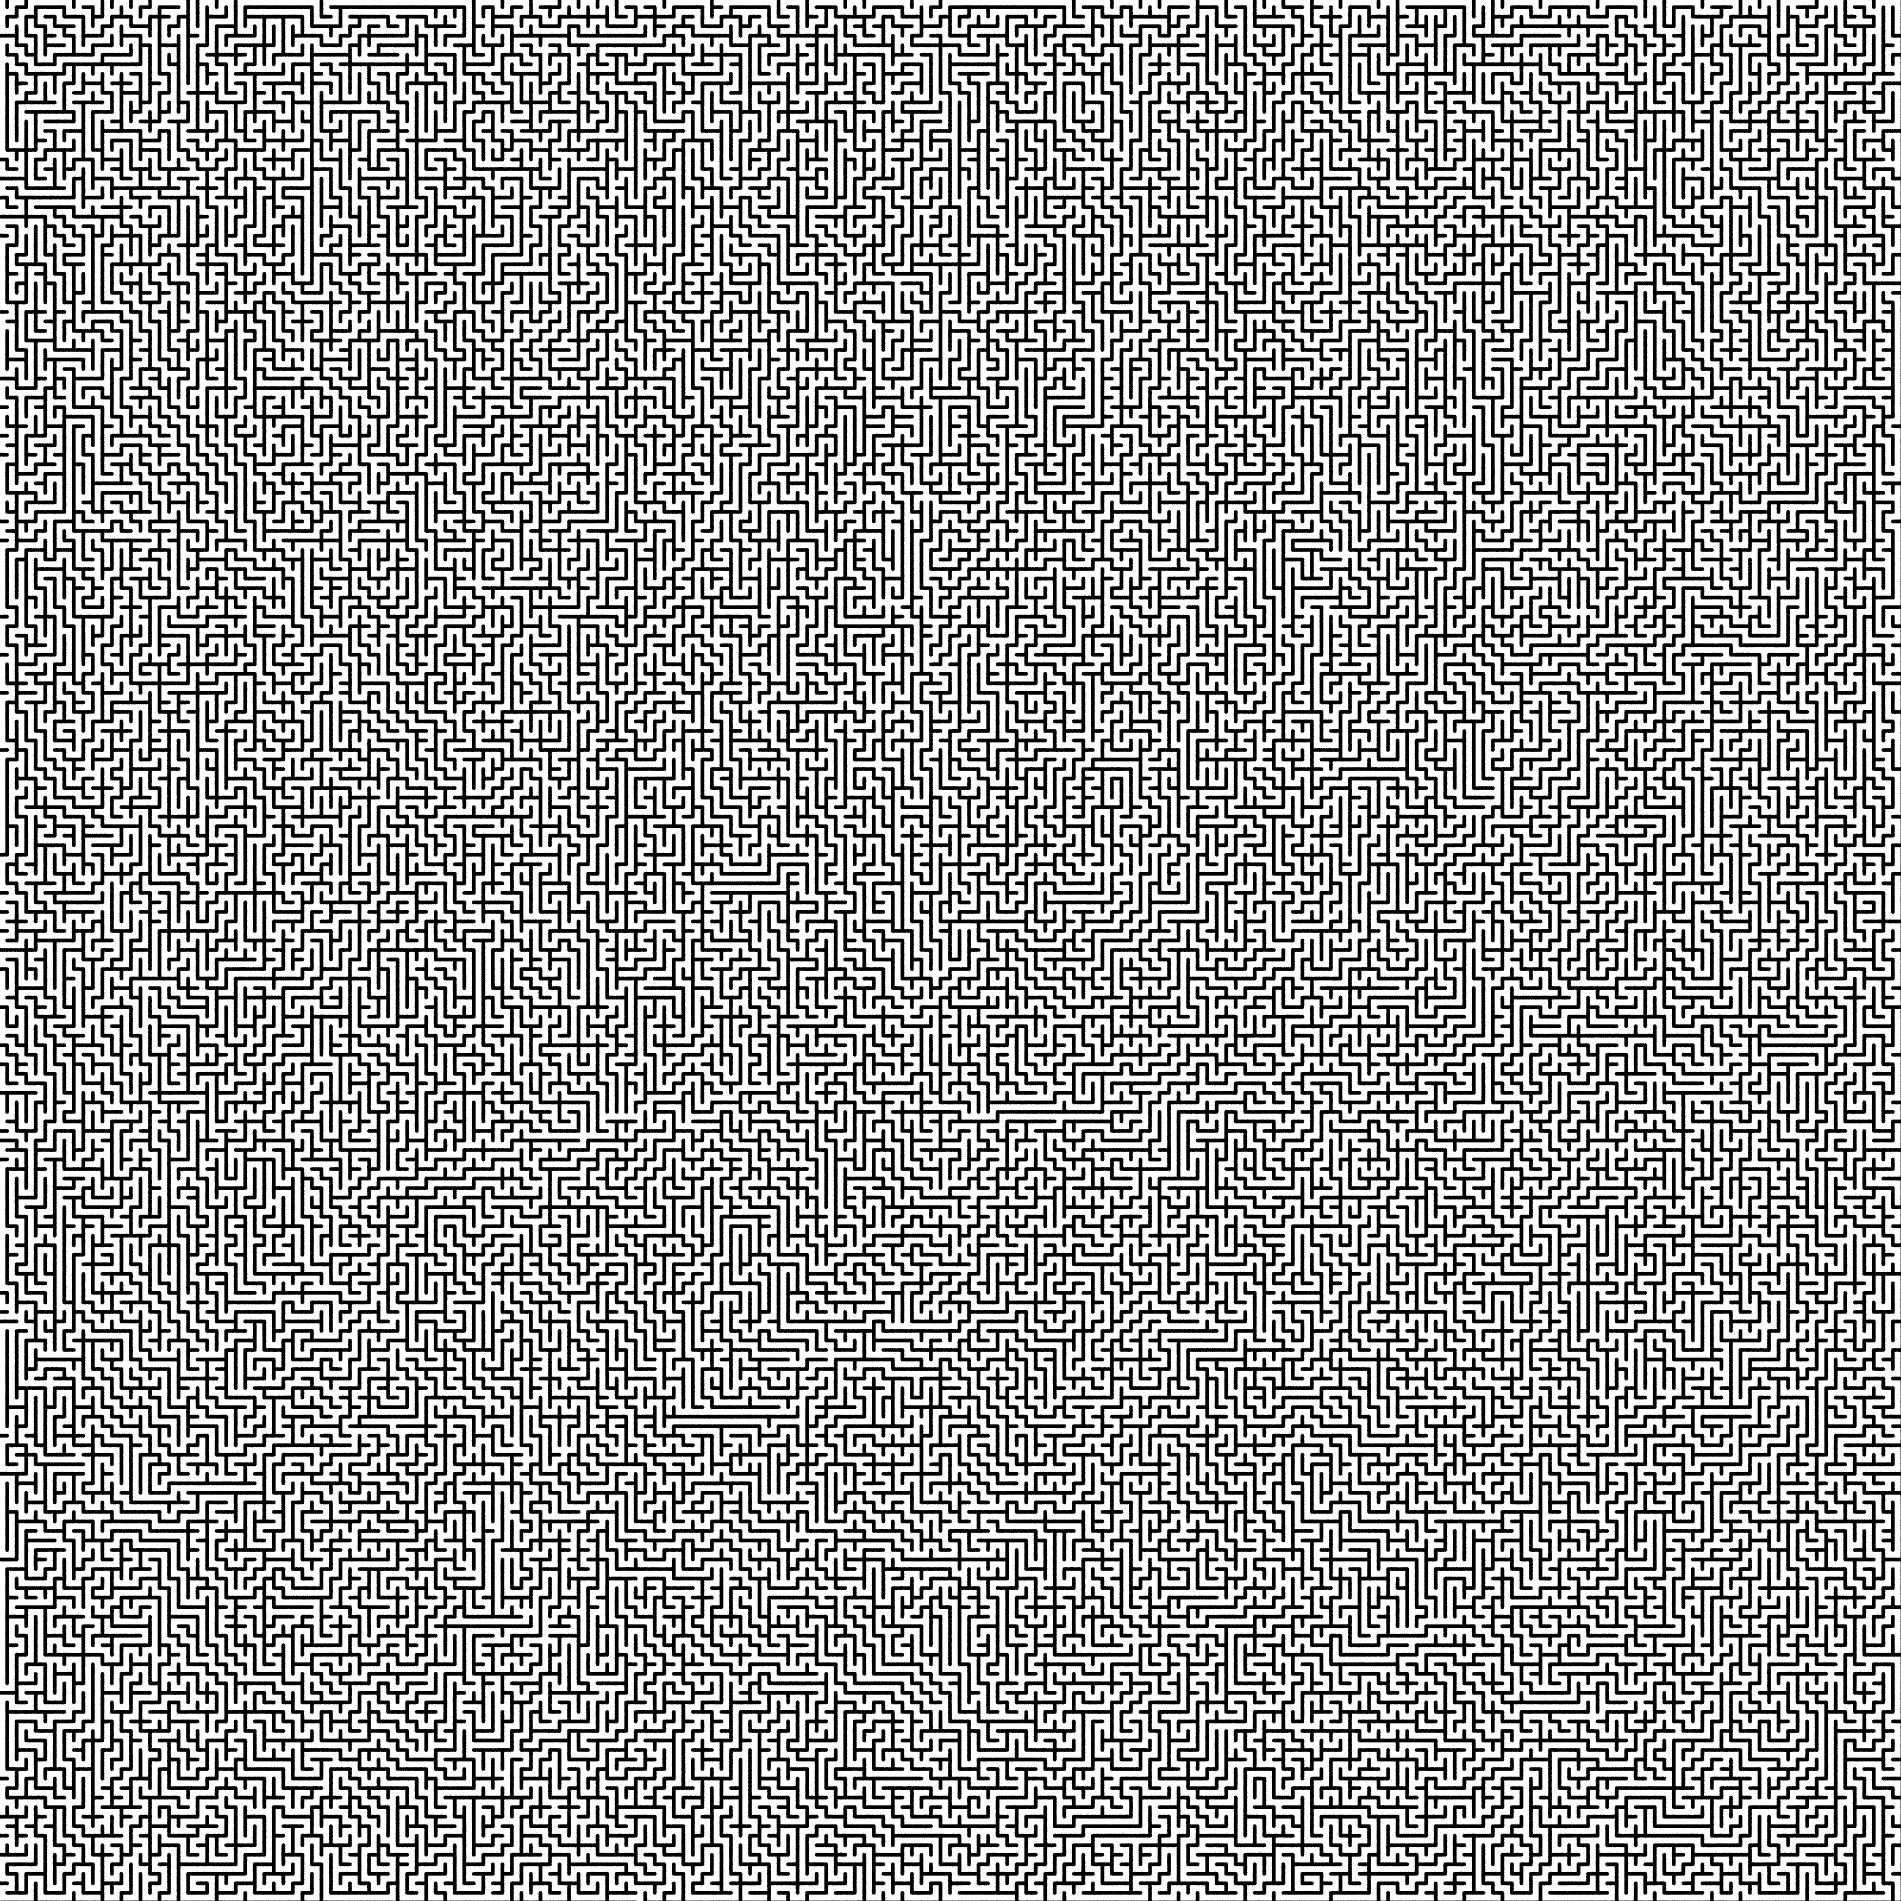
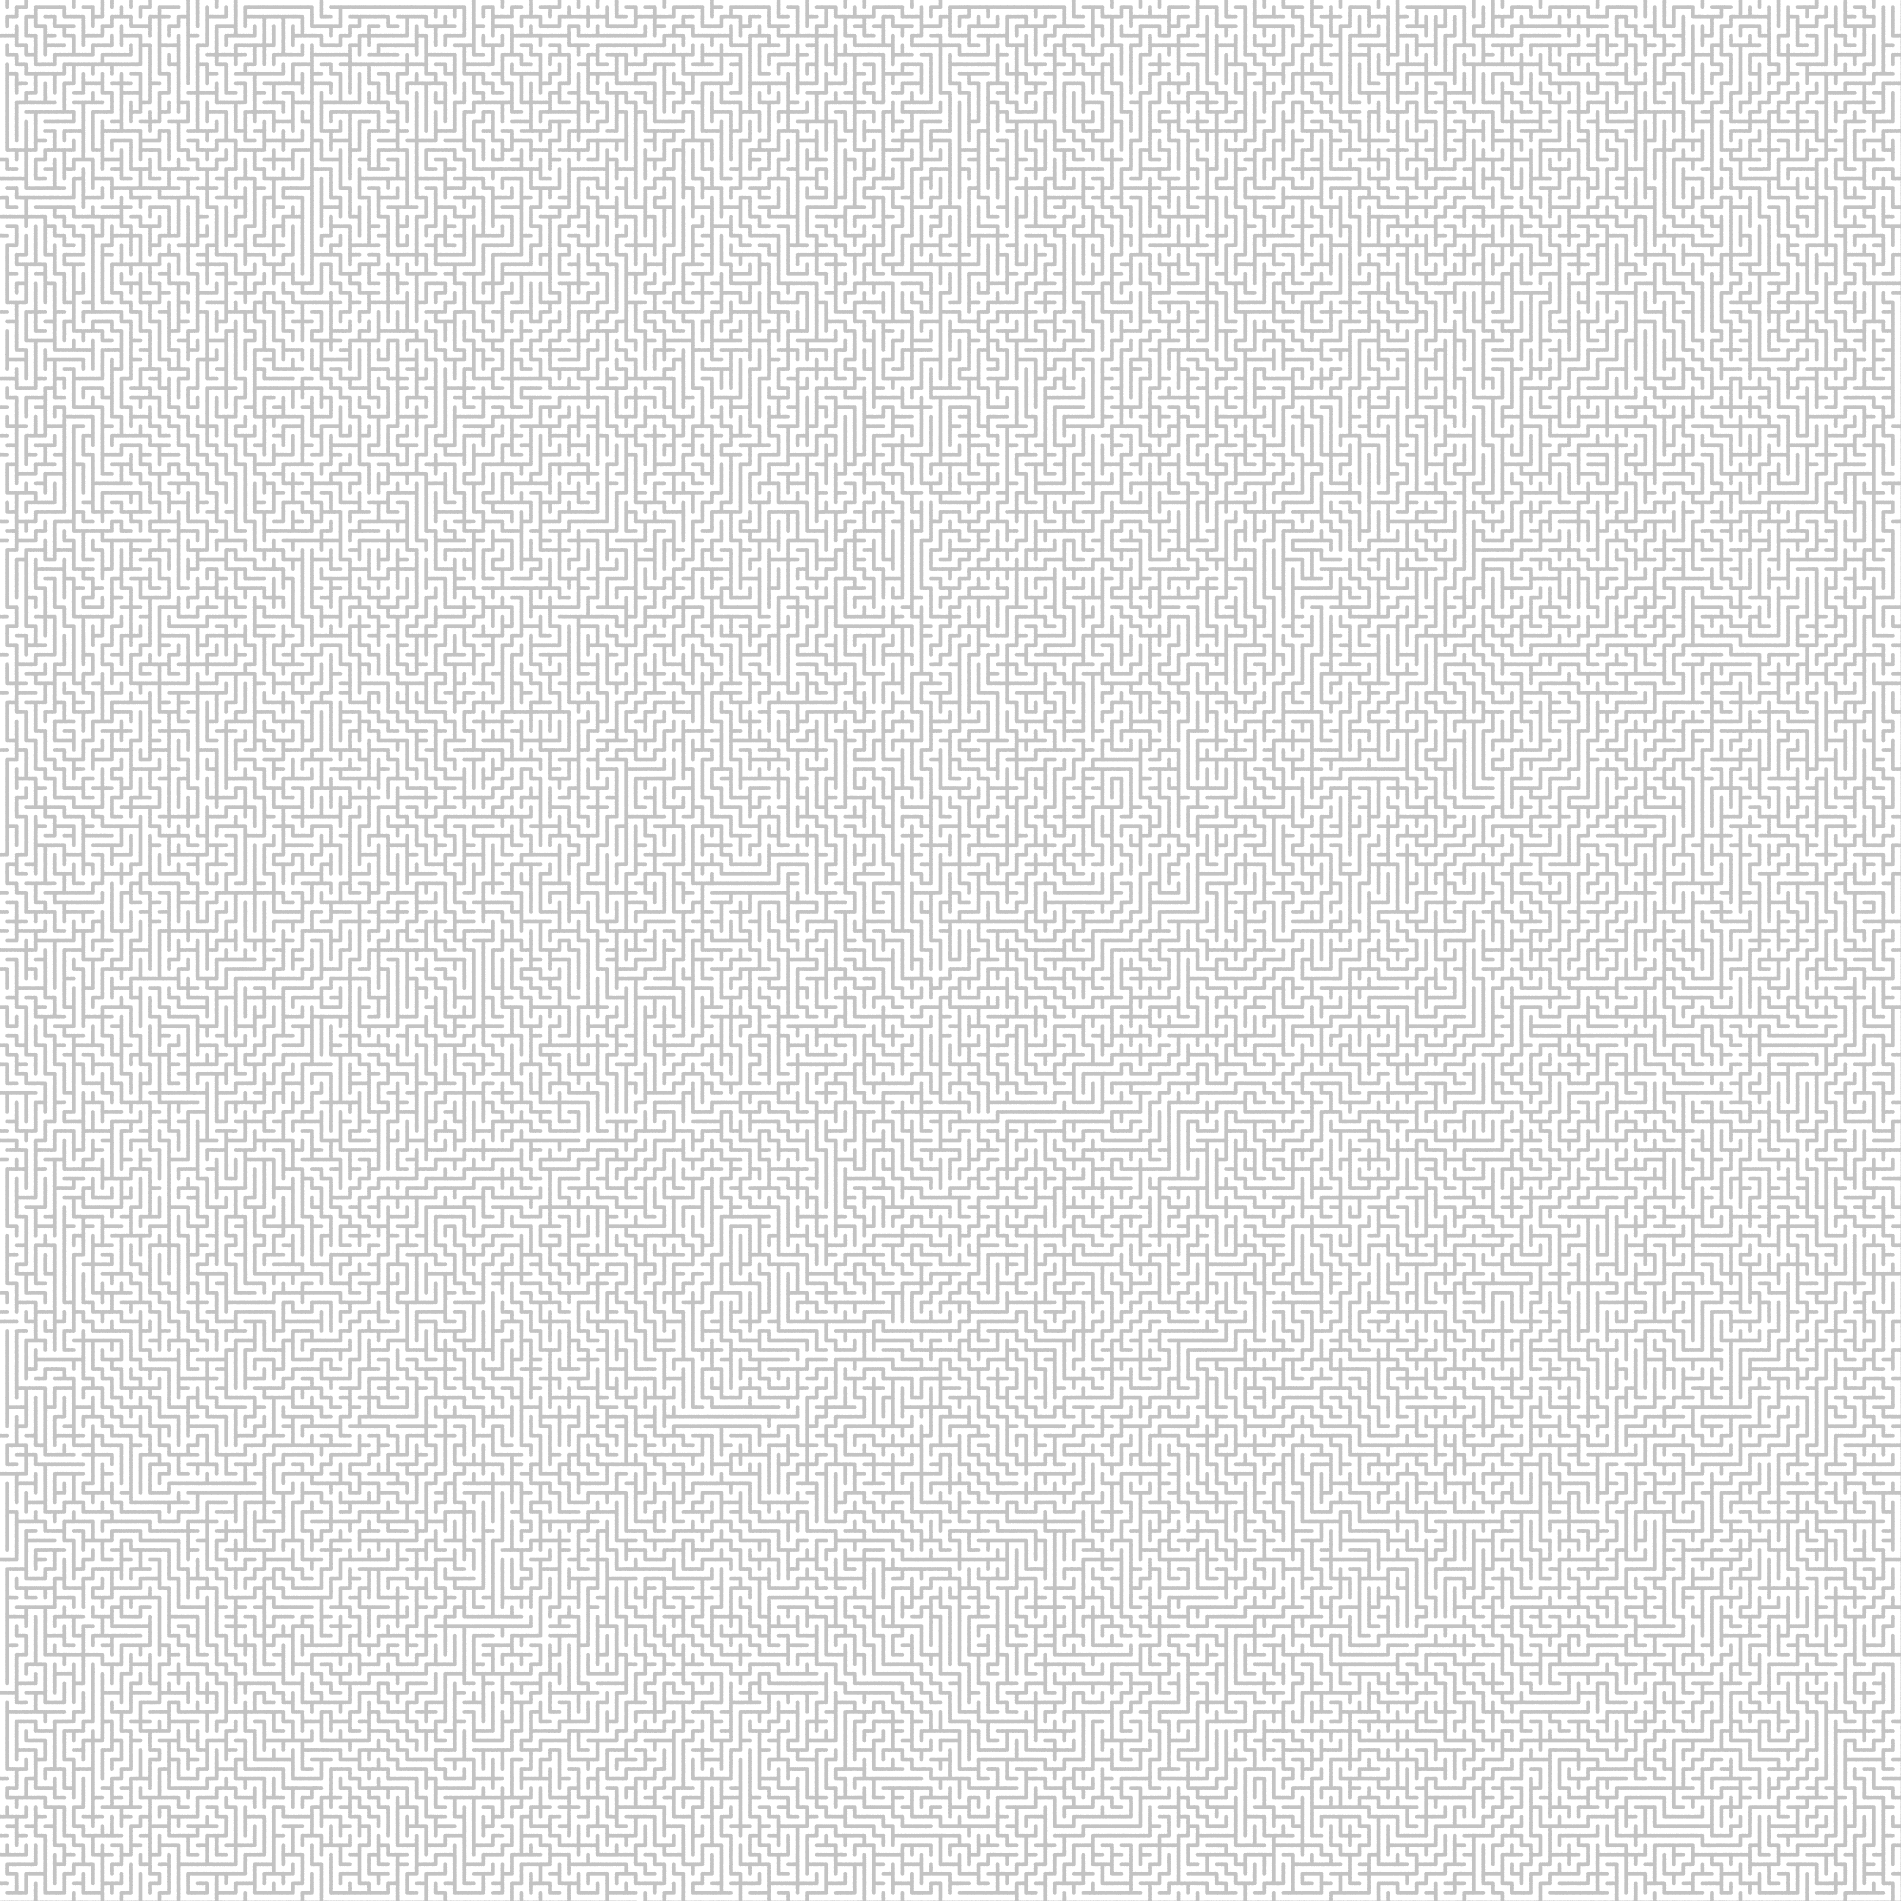
phone design

diff --git a/index.html b/index.html
@@ -17,14 +17,12 @@
 		}
 		img {
 			margin: 75px 0px 50px 0px;
-			border: 7px solid gray;
-			background: rgba(200, 200, 200, 0.5);
-			border-radius: 20px;
+			border: 7px solid rgba(200, 200, 200, 1);
 		}
 		img:hover {
-			background: rgba(50, 50, 50, 1);
-			background: -webkit-linear-gradient(bottom, rgba(50, 50, 50, 1), rgba(150, 150, 150, 1));
-			background: -moz-linear-gradient(bottom, rgba(50, 50, 50, 1), rgba(150, 150, 150, 1));
+			border: 7px solid rgba(180, 180, 180, 1);
+			background: rgba(220, 220, 220, 1);
+			border-radius: 20px;
 		}
 		a {
 			color: white;
@@ -34,6 +32,7 @@
 		ul {
 			padding: 20px;
 			background: rgba(25, 25, 25, 1);
+			border-radius: 100px 100px 0 0;
 		}
 		li {
 			display: inline;
@@ -69,6 +68,10 @@
 			color: white;
 			background: blue;
 		}
+		footer {
+			text-align: right;
+			padding: 10px;
+		}
 
 		.first{
 			background-color: black;
@@ -79,28 +82,33 @@
 		}
 		.third{
 			background-image: url("images/psychbg.png");
-			opacity: 0.1;
-			color: white;
+			color: black;
 		}
 		.fourth{
 			background-color: rgba(150, 150, 150, 1);
 			color: black;
+		}
+		.fifth{
+			background-color: rgba(25, 25, 25, 1);
+			border-radius: 0 0 100px 100px;
+			height: 250px;
 		}
 
 	</style>
 </head>
 <body>
 	<header>
-	<a href=""><img src="images/websitelogo.png" alt="Logo"></a>
+	<a href=""><img src="images/websitelogo.png" alt="logo"></a>
 	<ul>
-		<li><a href="#">Who Am I?</a></li>
-		<li><a href="#">Contact Me</a></li>
+		<li><a href="#first">Who Am I?</a></li>
+		<li><a href="#fourth">Contact Me</a></li>
 	</ul>
 	</header>
 
 	<div class="first">
+		<a name="first">
 		<p>Who Am I?<br /><br />
-		Hello there! I'm Newman, a University of Texas at Austin student majoring in Economics and Psychology. With these majors, I aspire to become a Marketing Research Analyst.</p>
+		Hello there! I'm Newman, a University of Texas at Austin student majoring in Economics and Psychology.</p>
 	</div>
 
 	<div class="second">
@@ -112,9 +120,17 @@
 	</div>
 
 	<div class="fourth">
+		<a name="fourth">
 		<p>Contact Me</p>
 		<input type="email" placeholder="Your email">
 		<input type="submit">
 		<p><a href="https://www.dropbox.com/s/w0ipi89sdx3wwh9/resume.docx?dl=0">R&#233;sum&#233;</a></p>
 	</div>
+	<div class="fifth">
+		<a href=""><img src="images/phonebutton.png" alt="button"></a>
+	</div>
+
+	<footer>
+	&copy; Newman Liu
+	</footer>
 </body>
